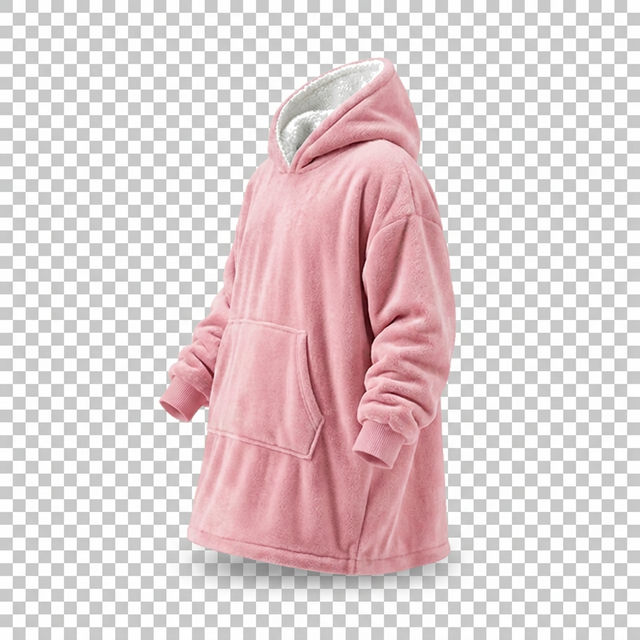
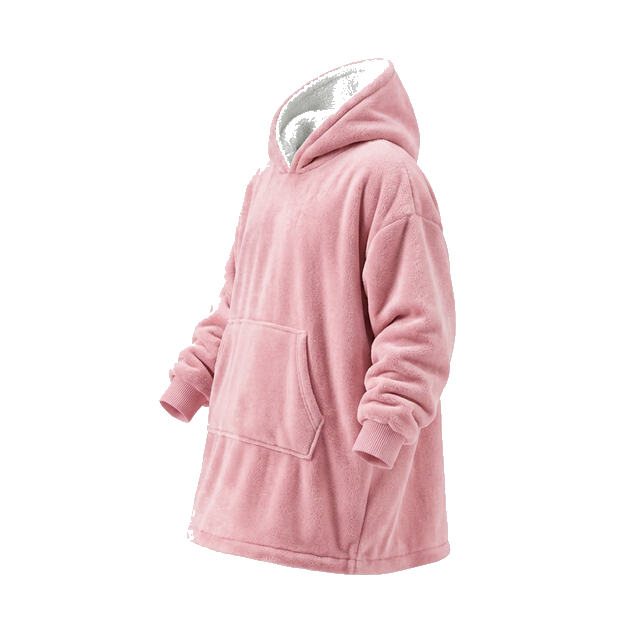
fix: resolve product image transparency issues

diff --git a/src/data/products.ts b/src/data/products.ts
@@ -19,8 +19,8 @@ export const products = [
     price: '2199 INR',
     originalPrice: '3499 INR',
     category: 'Originals',
-    image: '/grey-1.png',
-    images: ['/grey-1.png', '/grey-2.png'],
+    image: '/grey_transparent.png',
+    images: ['/grey_transparent.png', '/grey-2.png'],
     bgColor: '#FFF5EB',
     contain: true,
     description: 'Stay neutral and cozee with our Grey edition. Featuring the same premium dual-layer construction, this versatile color matches any lounging aesthetic.',

diff --git a/remove_bg.py b/remove_bg.py
@@ -1,0 +1,61 @@
+from PIL import Image, ImageDraw
+import sys
+import os
+
+def remove_background(image_path, output_path):
+    print(f"Processing {image_path}...")
+    img = Image.open(image_path).convert("RGBA")
+    width, height = img.size
+    
+    # Get background colors from corners
+    color1 = img.getpixel((0, 0))
+    color2 = img.getpixel((width - 1, 0))
+    
+    # Simple check to see if we have a checkerboard
+    print(f"Corner colors: {color1}, {color2}")
+    
+    # We'll use multiple seeds to cover all edges
+    seeds = [
+        (0, 0), (width - 1, 0), (0, height - 1), (width - 1, height - 1),
+        (width // 2, 0), (width // 2, height - 1), (0, height // 2), (width - 1, height // 2)
+    ]
+    
+    # Target transparency (0,0,0,0)
+    target_color = (0, 0, 0, 0)
+    
+    # We'll perform flood fill for both checkerboard colors
+    # Use a bit of tolerance
+    tolerance = 10
+    
+    def is_match(c1, c2):
+        return all(abs(c1[i] - c2[i]) < tolerance for i in range(3))
+
+    # Mask to keep track of filled areas to prevent redundant work
+    canvas = Image.new('L', (width, height), 0)
+    draw = ImageDraw.Draw(img)
+    
+    # Unfortunately Pillow's floodfill doesn't support transparency well in-place for mask-based logic
+    # We'll use a mask-based approach
+    mask = Image.new('L', (width, height), 255)
+    
+    for seed_x, seed_y in seeds:
+        seed_color = img.getpixel((seed_x, seed_y))
+        if seed_color[3] == 0: continue # Already transparent
+        
+        # We target the specific color at the seed
+        ImageDraw.floodfill(img, (seed_x, seed_y), (0, 0, 0, 0), thresh=tolerance)
+
+    img.save(output_path, "PNG")
+    print(f"Saved to {output_path}")
+
+if __name__ == "__main__":
+    files = [
+        "public/blackyyy_transparent.png",
+        "public/navyyy_transparent.png",
+        "public/pinkyyy_transparent.png"
+    ]
+    for f in files:
+        if os.path.exists(f):
+            remove_background(f, f)
+        else:
+            print(f"File not found: {f}")
